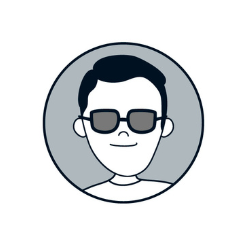
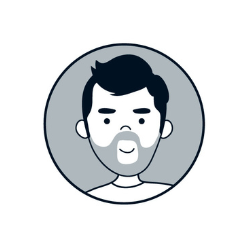
registro

diff --git a/client/src/pages/auth/RegisterForm.css b/client/src/pages/auth/RegisterForm.css
@@ -9,6 +9,7 @@ body {
     min-height: 100vh;
     overflow: auto;
 }
+
 .login-content h2 {
     font-size: 20px;
     padding-bottom: 10px;
@@ -20,11 +21,13 @@ body {
     display: flex;
     flex-direction: column;
     align-items: center;
-    justify-content: flex-start; /* Cambiado a flex-start */
+    justify-content: flex-start;
+    /* Cambiado a flex-start */
     background-color: #fff;
     padding: 20px 0;
     overflow-y: auto;
 }
+
 .register-logo {
     position: fixed;
     top: 0;
@@ -50,9 +53,11 @@ body {
     width: 100%;
     max-width: 400px;
     padding: 0 20px;
-    margin-top: 80px; /* Espacio para el logo fijo */
+    margin-top: 80px;
+    /* Espacio para el logo fijo */
     margin-bottom: 2rem;
 }
+
 .register-title {
     font-size: 26px;
     color: #222;
@@ -61,6 +66,7 @@ body {
     width: 100%;
     font-weight: normal;
 }
+
 .input-field {
     width: 100%;
     border-radius: 4px;
@@ -81,6 +87,7 @@ body {
     border-color: #000;
     background-color: #fff;
 }
+
 .form-group input {
     width: 100%;
     padding: 0.75rem;
@@ -95,7 +102,7 @@ body {
     display: flex;
     flex-direction: column;
     align-items: stretch;
- /* Hace que los botones se estiren para ocupar todo el espacio */
+    /* Hace que los botones se estiren para ocupar todo el espacio */
 }
 
 .submit-button {
@@ -131,17 +138,20 @@ body {
     .register-container {
         justify-content: flex-start;
     }
-    
+
     .register-form {
-        margin-top: 80px; /* Mantener espacio consistente */
+        margin-top: 80px;
+        /* Mantener espacio consistente */
     }
 }
 
 @media screen and (min-height: 701px) {
     .register-form {
-        margin-top: 80px; /* Asegurar espacio suficiente en pantallas más altas */
+        margin-top: 80px;
+        /* Asegurar espacio suficiente en pantallas más altas */
     }
 }
+
 .avatar-section {
     width: 100%;
     margin-bottom: 20px;
@@ -150,41 +160,55 @@ body {
 .avatar-title {
     font-size: 15px;
     margin-bottom: 15px;
-    color: #b8b5b5; /* Mismo color que los placeholders */
-    text-align: left; /* Alineado a la izquierda como los inputs */
-    padding-left: 2px; /* Pequeño padding para alinear con el borde del input */
+    color: #b8b5b5;
+    text-align: left;
+    padding-left: 2px;
 }
 
 .avatar-grid {
-    display: grid;
-    grid-template-columns: repeat(3, 1fr);
-    gap: 15px;
+    display: flex;
+    flex-direction: row;
+    /* Cambiado a row para disposición horizontal */
+    gap: 30px;
+    /* Aumentado el gap para más separación horizontal */
     margin-top: 20px;
     margin-bottom: 15px;
-    max-width: 280px; /* Mantiene el tamaño compacto de la grilla */
-    margin-left: auto;
-    margin-right: auto;
+    width: 100%;
+    max-width: 300px;
+    justify-content: flex-start;
+    /* Alinea los items al inicio */
 }
 
 .avatar-option {
-    position: relative;
+    display: flex;
+    flex-direction: column;
+    /* Cambiado a column para el título arriba de la imagen */
+    align-items: center;
+    gap: 8px;
     cursor: pointer;
-    border-radius: 50%;
-    padding: 2px;
+    padding: 5px;
     transition: all 0.2s ease;
-    border: 2px solid transparent;
+}
+
+.avatar-title-text {
+    font-size: 16px;
+    color: #222;
+    text-align: center;
+}
+
+.avatar-image-container {
+    position: relative;
     width: 60px;
     height: 60px;
-    margin: 0 auto;
+    border-radius: 50%;
+    padding: 2px;
+    border: 2px solid transparent;
+    transition: all 0.2s ease;
 }
 
-.avatar-option.selected {
+.avatar-image-container.selected {
     border-color: #222;
-    transform: scale(1.1);
-}
-
-.avatar-option:hover {
-    transform: scale(1.1);
+    transform: scale(1.05);
 }
 
 .avatar-image {
@@ -197,12 +221,16 @@ body {
 
 /* Para pantallas más pequeñas */
 @media screen and (max-width: 400px) {
-    .avatar-option {
+    .avatar-image-container {
         width: 50px;
         height: 50px;
     }
 
     .avatar-grid {
-        gap: 12px;
+        gap: 15px;
+    }
+
+    .avatar-title-text {
+        font-size: 14px;
     }
 }

diff --git a/client/src/pages/auth/RegisterForm.jsx b/client/src/pages/auth/RegisterForm.jsx
@@ -6,27 +6,21 @@ import './RegisterForm.css';
 
 const RegisterForm = () => {
     const navigate = useNavigate();
+    const avatarOptions = [
+        { id: 1, path: 'https://bidly-products.s3.eu-north-1.amazonaws.com/uploads/users/default-avatar/hombre-cinco.png', alt: 'Avatar 1', title: 'Mr.' },
+        { id: 2, path: 'https://bidly-products.s3.eu-north-1.amazonaws.com/uploads/users/default-avatar/mujer-cinco.png', alt: 'Avatar 2', title: 'Mrs.' },
+    ];
+
     const [formData, setFormData] = useState({
         name: '',
         email: '',
         password: '',
         passwordRepeat: '',
         address: '',
-        avatar: '/avatars/hombre-uno.png'
+        avatar: avatarOptions[0].path // el primero avatar por defecto 
     });
 
-    // Predefined avatar options
-    const avatarOptions = [
-        { id: 1, path: '/avatars/hombre-uno.png', alt: 'Avatar 1' },
-        { id: 2, path: '/avatars/mujer-uno.png', alt: 'Avatar 2' },
-        { id: 3, path: '/avatars/hombre-dos.png', alt: 'Avatar 3' },
-        { id: 4, path: '/avatars/mujer-dos.png', alt: 'Avatar 4' },
-        { id: 5, path: '/avatars/hombre-tres.png', alt: 'Avatar 5' },
-        { id: 6, path: '/avatars/mujer-tres.png', alt: 'Avatar 6' },
-        { id: 7, path: '/avatars/hombre-cuatro.png', alt: 'Avatar 7' },
-        { id: 8, path: '/avatars/mujer-cuatro.png', alt: 'Avatar 8' },
-        { id: 9, path: '/avatars/hombre-cinco.png', alt: 'Avatar 9' }
-    ];
+
 
     const handleChange = (e) => {
         const { name, value } = e.target;
@@ -73,7 +67,7 @@ const RegisterForm = () => {
             return;
         }
 
-        
+
         try {
             const response = await fetch(`${BASE_URL}/user/register`, {
                 method: 'POST',
@@ -96,9 +90,9 @@ const RegisterForm = () => {
             if (!response.ok) {
                 throw new Error(data.message);
             }
-            navigate('/', { 
+            navigate('/', {
                 state: { openLoginModal: true }
-              });
+            });
 
         } catch (error) {
             if (error.message === 'El correo ya esta registrado') {
@@ -126,19 +120,21 @@ const RegisterForm = () => {
                         {avatarOptions.map((avatar) => (
                             <div
                                 key={avatar.id}
-                                className={`avatar-option ${formData.avatar === avatar.path ? 'selected' : ''}`}
+                                className="avatar-option"
                                 onClick={() => handleAvatarSelect(avatar.path)}
                             >
-                                <img
-                                    src={avatar.path}
-                                    alt={avatar.alt}
-                                    className="avatar-image"
-                                />
+                                <span className="avatar-title-text">{avatar.title}</span>
+                                <div className={`avatar-image-container ${formData.avatar === avatar.path ? 'selected' : ''}`}>
+                                    <img
+                                        src={avatar.path}
+                                        alt={avatar.alt}
+                                        className="avatar-image"
+                                    />
+                                </div>
                             </div>
                         ))}
                     </div>
                 </div>
-
                 <input
                     type="text"
                     name="name"

diff --git a/client/src/components/navbar/Navbar.jsx b/client/src/components/navbar/Navbar.jsx
@@ -17,7 +17,7 @@ const Navbar = () => {
         // Check if we should open the login modal based on navigation state
         if (location.state?.openLoginModal) {
             setIsLoginOpen(true);
-        // Clean up the state so the modal doesn't reopen on refresh
+            // Clean up the state so the modal doesn't reopen on refresh
             navigate('/', { replace: true, state: {} });
         }
     }, [location, navigate]);
@@ -60,7 +60,7 @@ const Navbar = () => {
         setIsMobileMenuOpen(!isMobileMenuOpen);
     };
 
-   const handleLoginClick = (e) => {
+    const handleLoginClick = (e) => {
         e.preventDefault();
         setIsLoginOpen(true);
         setIsMobileMenuOpen(false);
@@ -148,13 +148,13 @@ const Navbar = () => {
                             <div className="auth-links">
                                 {isAuth ? (
                                     <>
-                                        <div className="user-avatar">
+                                        <Link to="/my-profile" className="user-avatar">
                                             <img
                                                 src={getAvatarUrl()}
                                                 alt={`${userData?.name || 'User'}'s avatar`}
                                                 className="avatar-img"
                                             />
-                                        </div>
+                                        </Link>
                                         <a href="/" onClick={handleLogout}>Log Out</a>
                                     </>
                                 ) : (
@@ -187,13 +187,13 @@ const Navbar = () => {
                     <div className="auth-mobile-links">
                         {isAuth ? (
                             <>
-                                <div className="user-avatar-mobile">
+                                <Link to="/my-profile" className="user-avatar">
                                     <img
                                         src={getAvatarUrl()}
                                         alt={`${userData?.name || 'User'}'s avatar`}
                                         className="avatar-img"
                                     />
-                                </div>
+                                </Link>
                                 <a href="/" className="menu-item-logout" onClick={handleLogout}>Log Out</a>
                             </>
                         ) : (

diff --git a/server/src/index.js b/server/src/index.js
@@ -7,7 +7,7 @@ import auctionController from "./controllers/auctionController.js";
 import cors from "cors";
 dotenv.config();
 
-const PORT = process.env.PORT || 3000;
+const PORT = 3000;
 const app = express(); // crear servidor
 
 app.use(express.static("src/public")); // configurar directorio de archivos estáticos